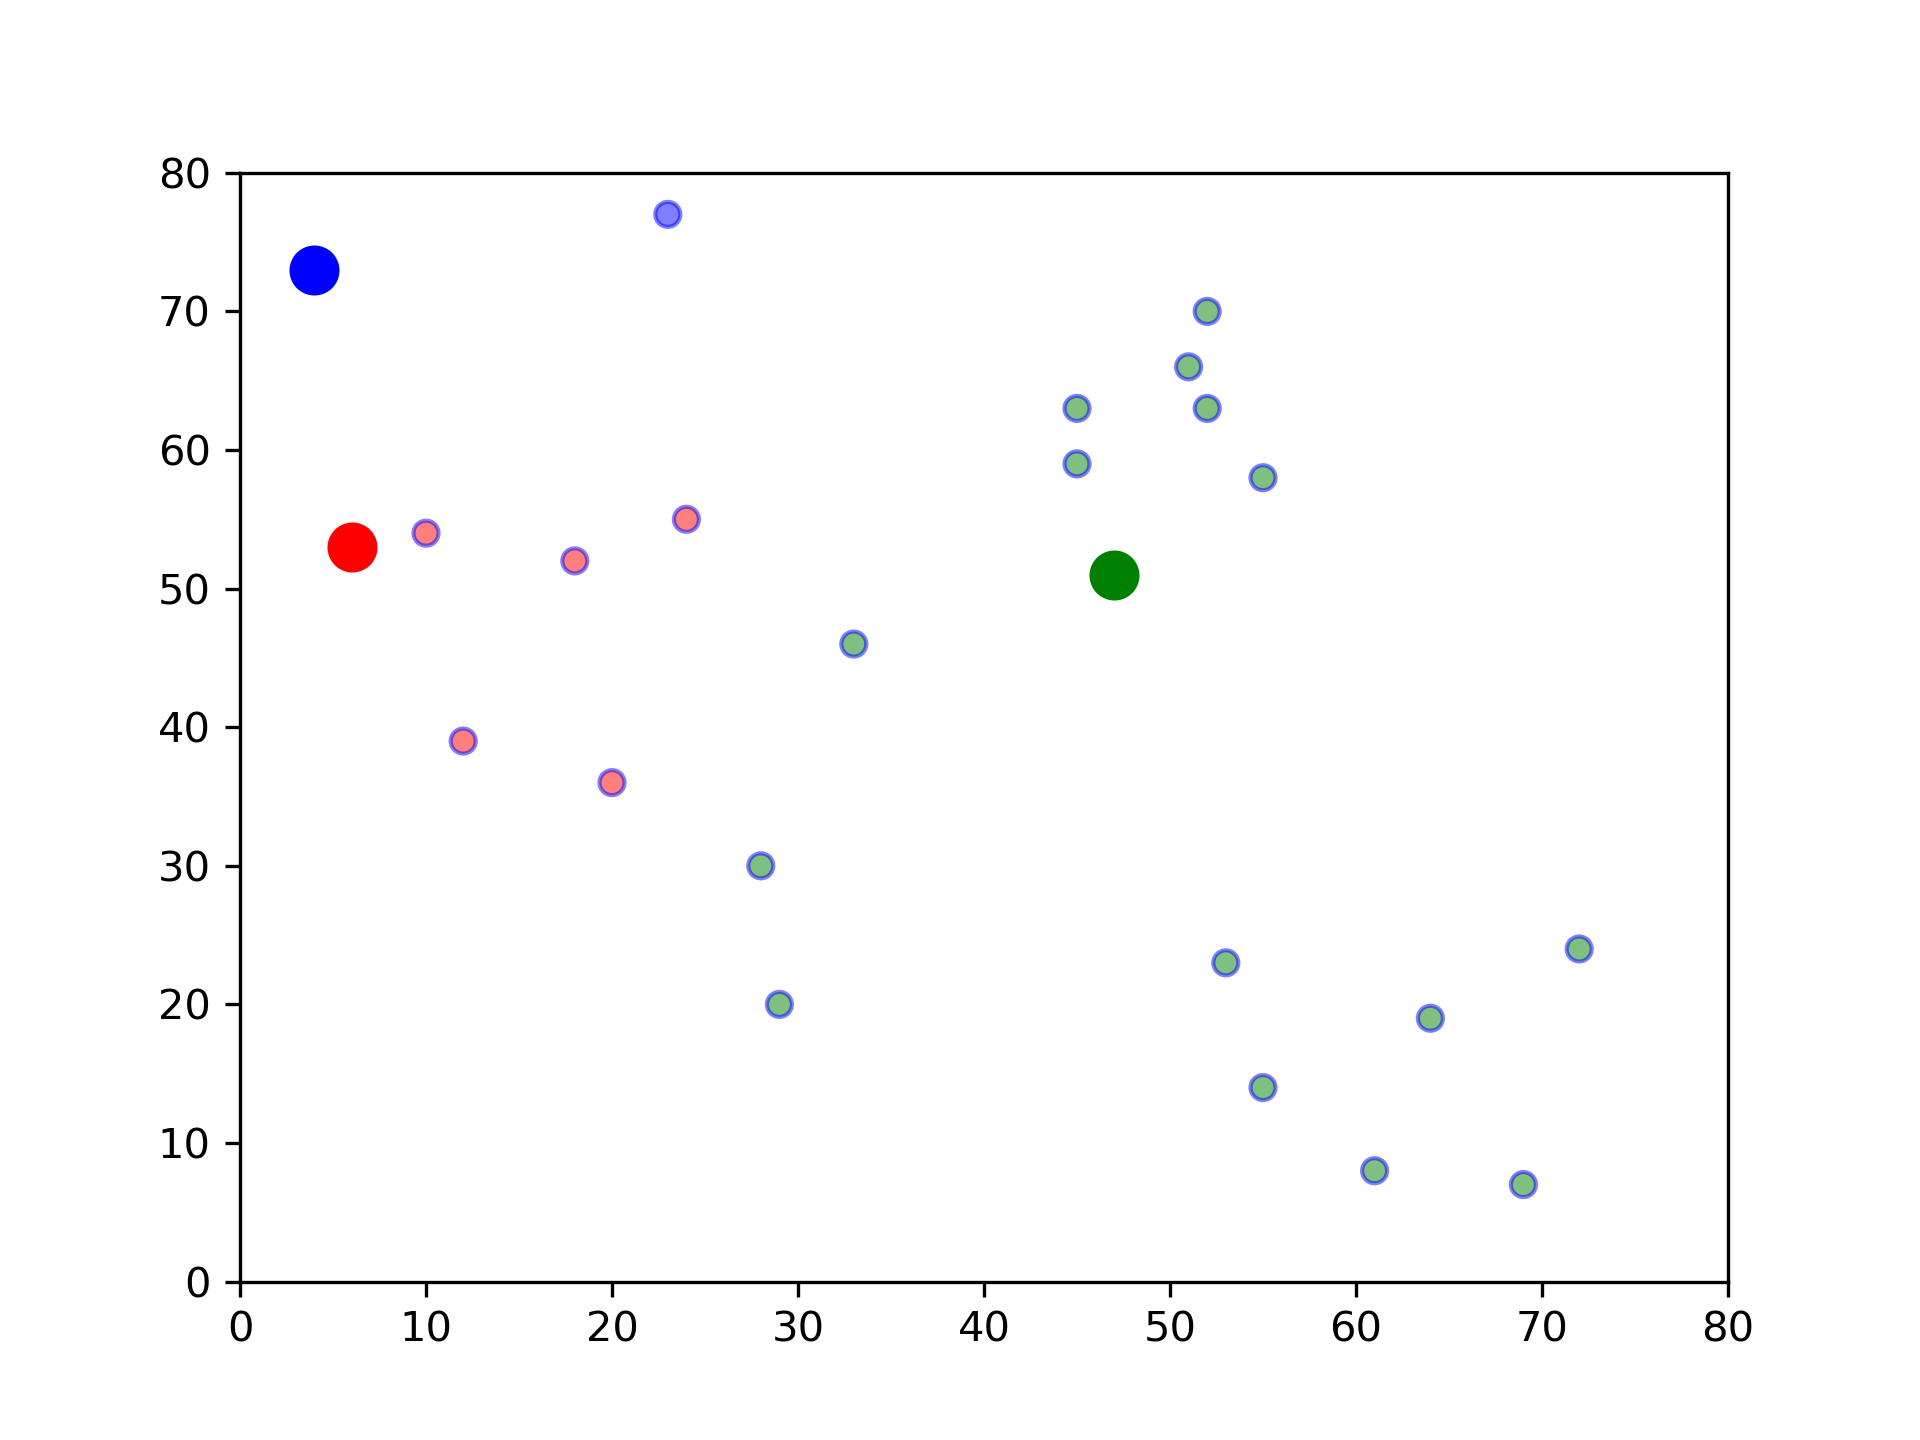
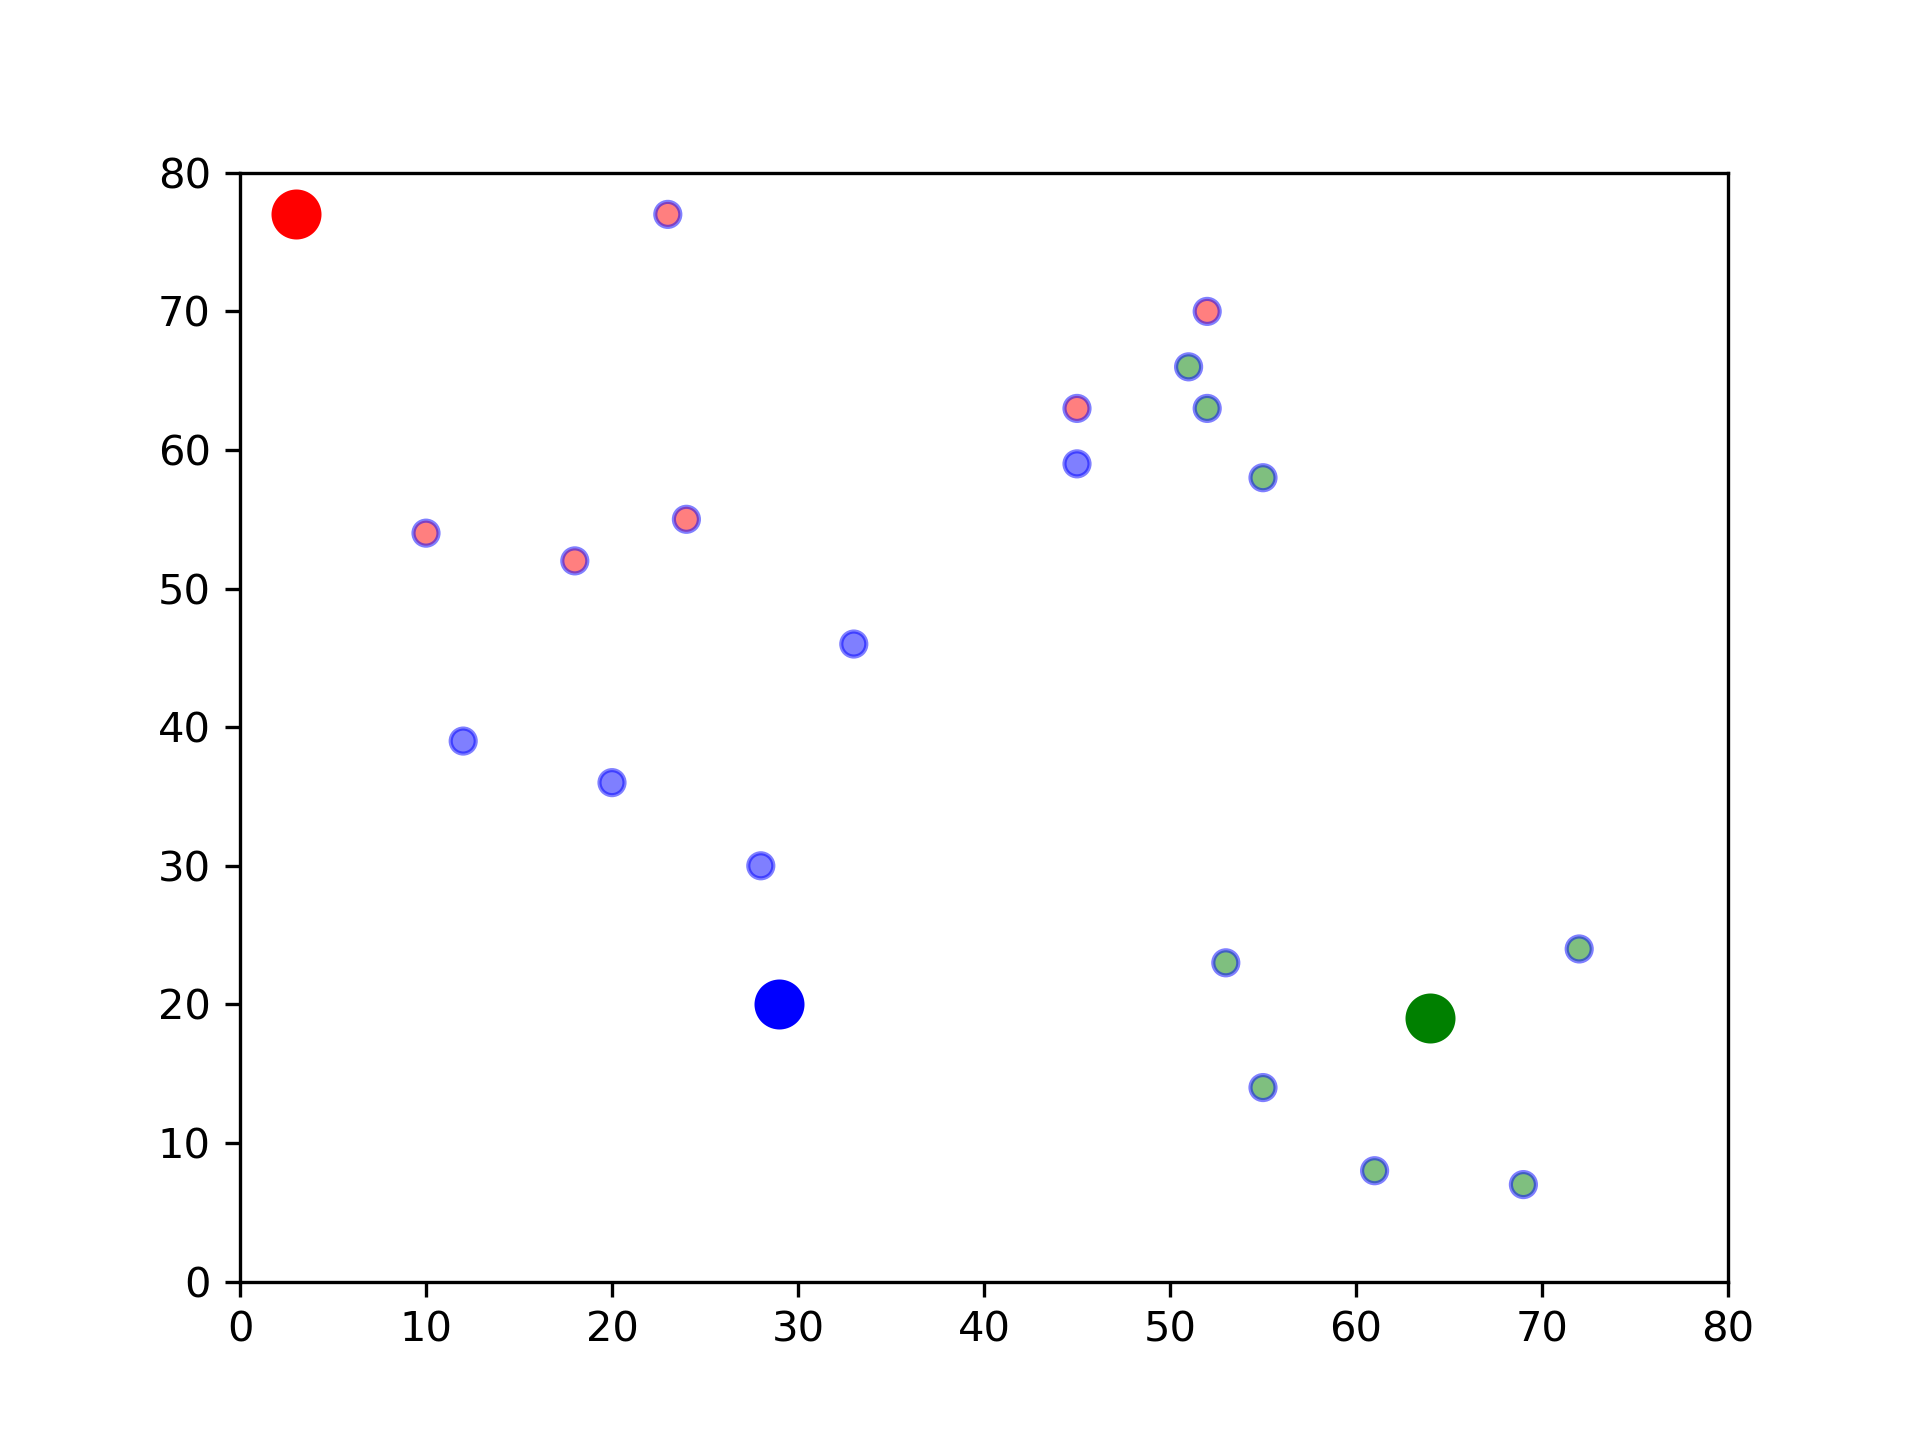
update new content

diff --git a/Lesson-05/kmeansPP.py b/Lesson-05/kmeansPP.py
@@ -1,0 +1,91 @@
+import matplotlib.pyplot as plt
+import numpy as np
+import pandas as pd
+import random
+import cv2
+
+#np.random.seed(42)
+
+
+def assignment(df, center, colmap):
+    
+    for i in center.keys():
+        df["distance_from_{}".format(i)] = np.sqrt((df["x"]-center[i][0])**2+(df["y"]-center[i][1])**2)
+
+    distance_from_centroid_id = ['distance_from_{}'.format(i) for i in center.keys()]
+    df["closest"] = df.loc[:, distance_from_centroid_id].idxmin(axis=1)
+    df["closest"] = df["closest"].map(lambda x: int(x.lstrip('distance_from_')))
+    df["color"] = df['closest'].map(lambda x: colmap[x])
+    return df
+
+def update(df, centroids):
+
+    for i in centroids.keys():
+        centroids[i][0] = np.mean(df[df['closest'] == i]['x'])
+        centroids[i][1] = np.mean(df[df['closest'] == i]['y'])
+    return centroids
+
+def select_center(first_center, df, k):
+    center = {}
+    center[0]=first_center
+    D_x_2 = (df["x"]-first_center[0])**2+(df["y"]-first_center[1])**2
+    P_x = D_x_2/(D_x_2.sum())
+    sum_x = P_x.cumsum()
+    for i in range(1,k):
+        next_center = random.random()
+        for index,j in enumerate(sum_x):
+            if j>next_center:
+                break
+        center[i]=list(df.iloc[index].values)
+    return center
+
+
+def main():
+    df = pd.DataFrame({
+        'x': [12, 20, 28, 18, 10, 29, 33, 24, 45, 45, 52, 51, 52, 55, 53, 55, 61, 64, 69, 72, 23],
+        'y': [39, 36, 30, 52, 54, 20, 46, 55, 59, 63, 70, 66, 63, 58, 23, 14, 8, 19, 7, 24, 77]
+    })
+
+    k = 3
+
+    first_center = [np.random.randint(0,80), np.random.randint(0,80)]
+    center = select_center(first_center, df, k)
+
+    colmap = {0:"r", 1:"g", 2:"b"}
+    df = assignment(df, center, colmap)
+    plt.scatter(df["x"], df["y"], c=df["color"],alpha=0.5,edgecolors='b')
+
+    for i in center.keys():
+        plt.scatter(*center[i], c=colmap[i], linewidths=6)
+
+    plt.xlim(0,80)
+    plt.ylim(0,80)
+    plt.savefig("./img/img_0.png",format="png",dpi=300)
+    plt.show()
+
+
+    for i in range(10):
+
+        key = cv2.waitKey()
+        plt.close()
+
+        closest_center = df['closest'].copy(deep=True)
+        center = update(df, center)
+
+        plt.scatter(df['x'], df['y'], color=df['color'], alpha=0.5, edgecolor='b')
+
+        for j in center.keys():
+            plt.scatter(*center[j], color=colmap[j], linewidths=6)
+        plt.xlim(0, 80)
+        plt.ylim(0, 80)
+        plt.savefig("./img/img_{}.png".format(i+1),format="png",dpi=300)
+        plt.show()
+
+        df = assignment(df, center, colmap)
+
+        if closest_center.equals(df['closest']):
+            break
+
+
+if __name__=='__main__':
+    main()

diff --git a/Lesson-05/README.md b/Lesson-05/README.md
@@ -1,0 +1,16 @@
+# 作业
+
+#### 1. 作业1
+
+作业1代码为 kmeansPP.py
+
+运行结果如下：
+![](img\img_0.png)
+
+![](img\img_1.png)
+
+![](img\img_2.png)
+
+![](img\img_3.png)
+
+![](img\img_4.png)
